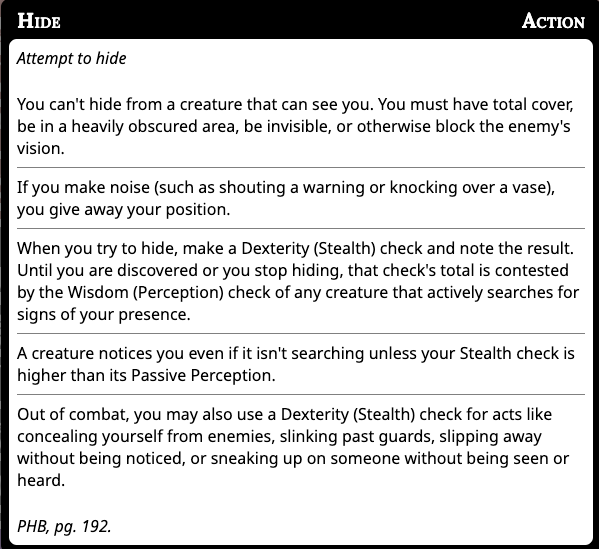
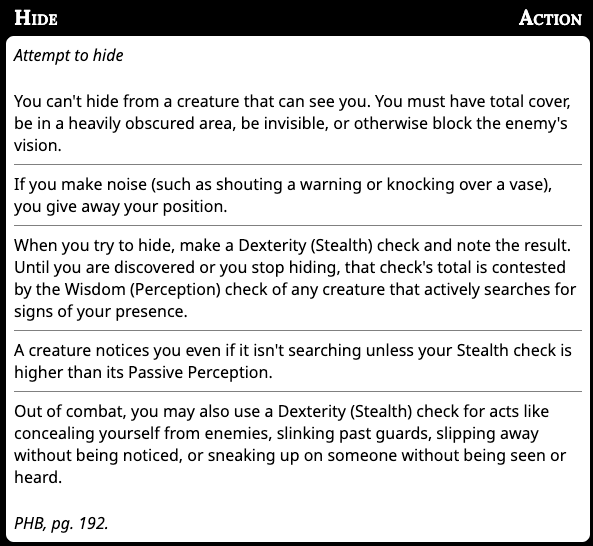
Formatting fixes

Changed region(s): [[0.0, 0.0, 1.0, 1.0]]

diff --git a/docs/stealth.md b/docs/stealth.md
@@ -4,33 +4,35 @@
 
 1. In order to Stealth you must take the hide action. The following rules determine this (from p177 and p192 of the PHB) ![Hiding](imgs/hiding.png)
 1. When you are hidden your location is not know. This is true even in combat
-1. If your location is not know you have advantage.
+1. If your location is not know:
+	1. You have advantage on attacks
+	1. You can't be targeted specifically. Someone can however target a square they think you might be on. 
 1. Hiding ends categorically if you make excessive noise, make an attack, or choose to end the Hide action.
-	1. Other than this, the things that end hiding are circumstantial and left up to the DM.
-	1. In practice though this just means you can't walk out into broad daylight and stay hidden.
-1. For the most part, as long as the creature keeps line of site mostly broken, they can remain hidden and do things like the following without breaking the hiding condition:
-	1. Leave from a different part of the cover they used to hide
-	1. Approach an enemy from behind anb stay hidden
-	1. \<More player suggestions here\>
-1. [This FAQ](https://www.enworld.org/threads/how-does-stealth-work-in-d-d-5e.681156/) covers more scenarios.
-1. For all other hiding/being unseen related rules, see this write up
-[these rules](https://tabletopbuilds.com/hiding-surprise-and-more/) for stealth. 
+	1. Other than this, the things that end hiding are circumstantial and common sense things that left up to the DM. (e.g. you walk out in broad daylight, or cast a silent but albeit noticeable spell).
+1. For the most part however, as long as the creature keeps line of site mostly broken, they can remain hidden and do things like the following without breaking the hiding condition:
+	1. Leave from a different part of the cover they hid behind
+	1. Approach an enemy from behind and stay hidden
+	1. ...more player suggestions welcome!
 
 ## Invisibility
 
-From p291 of the PHB
+From p291 of the PHB:
 
 > * An invisible creature is impossible to see without the aid of magic or a special sense. For the purpose of hiding, the creature is heavily obscured. The creature’s location can be detected by any noise it makes or any tracks it leaves.
 > * Attack rolls against the creature have disadvantage, and the creature’s attack rolls have advantage.
 
 1. This means unless seen an invisible creature can always attempt to Hide, since it’s always heavily obscured.
 1. If a creature fails to Hide, its location is known, due to some sign other than sight such as by leaving tracks or making noise.
-1. An important implication of the 2nd point: even you can see an invisible creature (e.g. via the *See Invisibility* spell), they still have advantage on attacks and enemies have disadvantage on attacks against them by RAW. Some things (e.g. Faerie Fire) completely remove this benefit though.
+1. An important implication of the 2nd point: even if you can see an invisible creature (e.g. via the *See Invisibility* spell), they still have advantage on attacks and enemies have disadvantage on attacks against them by RAW. Some things (e.g. the *Faerie Fire* spell) completely removes benefit though.
 
 ## Surprise
 
-If you are hiding when you initiate combat, you may be able to surprise the enemy
+If you are hiding when you initiate combat, you may be able to surprise the enemy.
 
 > If neither side tries to be stealthy, they automatically notice each other. Otherwise, the DM compares the Dexterity (Stealth) checks of anyone hiding with the passive Wisdom (Perception) score of each creature on the opposing side. Any character or monster that doesn’t notice a threat is surprised at the start of the encounter.
 
 This means that a creature must not notice any threats at the start of the encounter to be suprised. If they detects at least one of the party trying to hide, they are not suprised by any member. Everyone in the group must roll higher Stealth than that enemy’s passive Perception to surprise.
+
+## Further Reading
+
+I used [this write-up](https://tabletopbuilds.com/hiding-surprise-and-more/) and [this FAQ](https://www.enworld.org/threads/how-does-stealth-work-in-d-d-5e.681156/) as the basis for this doc. 

diff --git a/docs/house_rules.md b/docs/house_rules.md
@@ -13,10 +13,9 @@
 1. Flanking is now a +2 bonus to hit when you outnumber the enemy at least 2-to-1 and a +5 for 3-to-1
 	1. All other conditions that would grant Advantage (e.g. paralyzed) are staying the same. Only flanking is being changed to a flat bonus rather than an extra dice roll.
 	1. A creature/PC can't flank when Hidden
-		1. Rationale: when flanked a creature is divide it's defensive efforts among the flankers it is aware of. If the flanked creature doesn't know about a Hidden creature then why would it be trying to defend against it
-1. I will use the BG3 Path of the Bezerker
 1. [Stealth rules](stealth.md). This is all RAW, just distilled into one place, with some inferences being made.
-	1. TL;DR: You must use the Hide action in order to engage in Stealth. The hide action is determined by these rules (from p177 and p192 of the PHB) ![Hide Action Cheat Sheet](imgs/hiding.png)
+	1. TL;DR: You must use the Hide action in order to engage in Stealth. The hide action is determined by these rules (from p177 and p192 of the PHB)
+	![Hide Action Cheat Sheet](imgs/hiding.png)
 	1. Once you are hidden your location is not known. This is true even in combat.
 	1. If your location is not know you have advantage.
 	1. Attacking, excessive noise and other various common sense things that are at the DMs discretion end hiding.
@@ -34,14 +33,15 @@
 	1. An exception to this are the Search (WIS) and Investigation (INT) actions.
 1. TCOE is banned
 1. Cantrip Formulas, Martial Versatility, Eldritch Versatility etc is allowed 
+1. I will use the BG3 Path of the Bezerker
 1. Milestone levelling
 	1. Levelling will be tied to narrative objectives.
 
 ## Rationale
 
-For 1 and 2: Casters are the most "powerful" classes in the game. When you multiclass then they also become the most armoured in the game. This is kind of broken.
+For 1: Casters are the most "powerful" classes in the game. When you multiclass then they also become the most armoured in the game. This is kind of broken.
 
-For 3-5: Martial characters need more scope and more choice.
+For 2-4: Martial characters need more scope and more choice.
 
 # Changelog
 

diff --git a/docs/index.md b/docs/index.md
@@ -1,2 +1,3 @@
 * [Session 0](session_0.md)
 * [House Rules](house_rules.md)
+* [DM Principles](philosophy.md)
